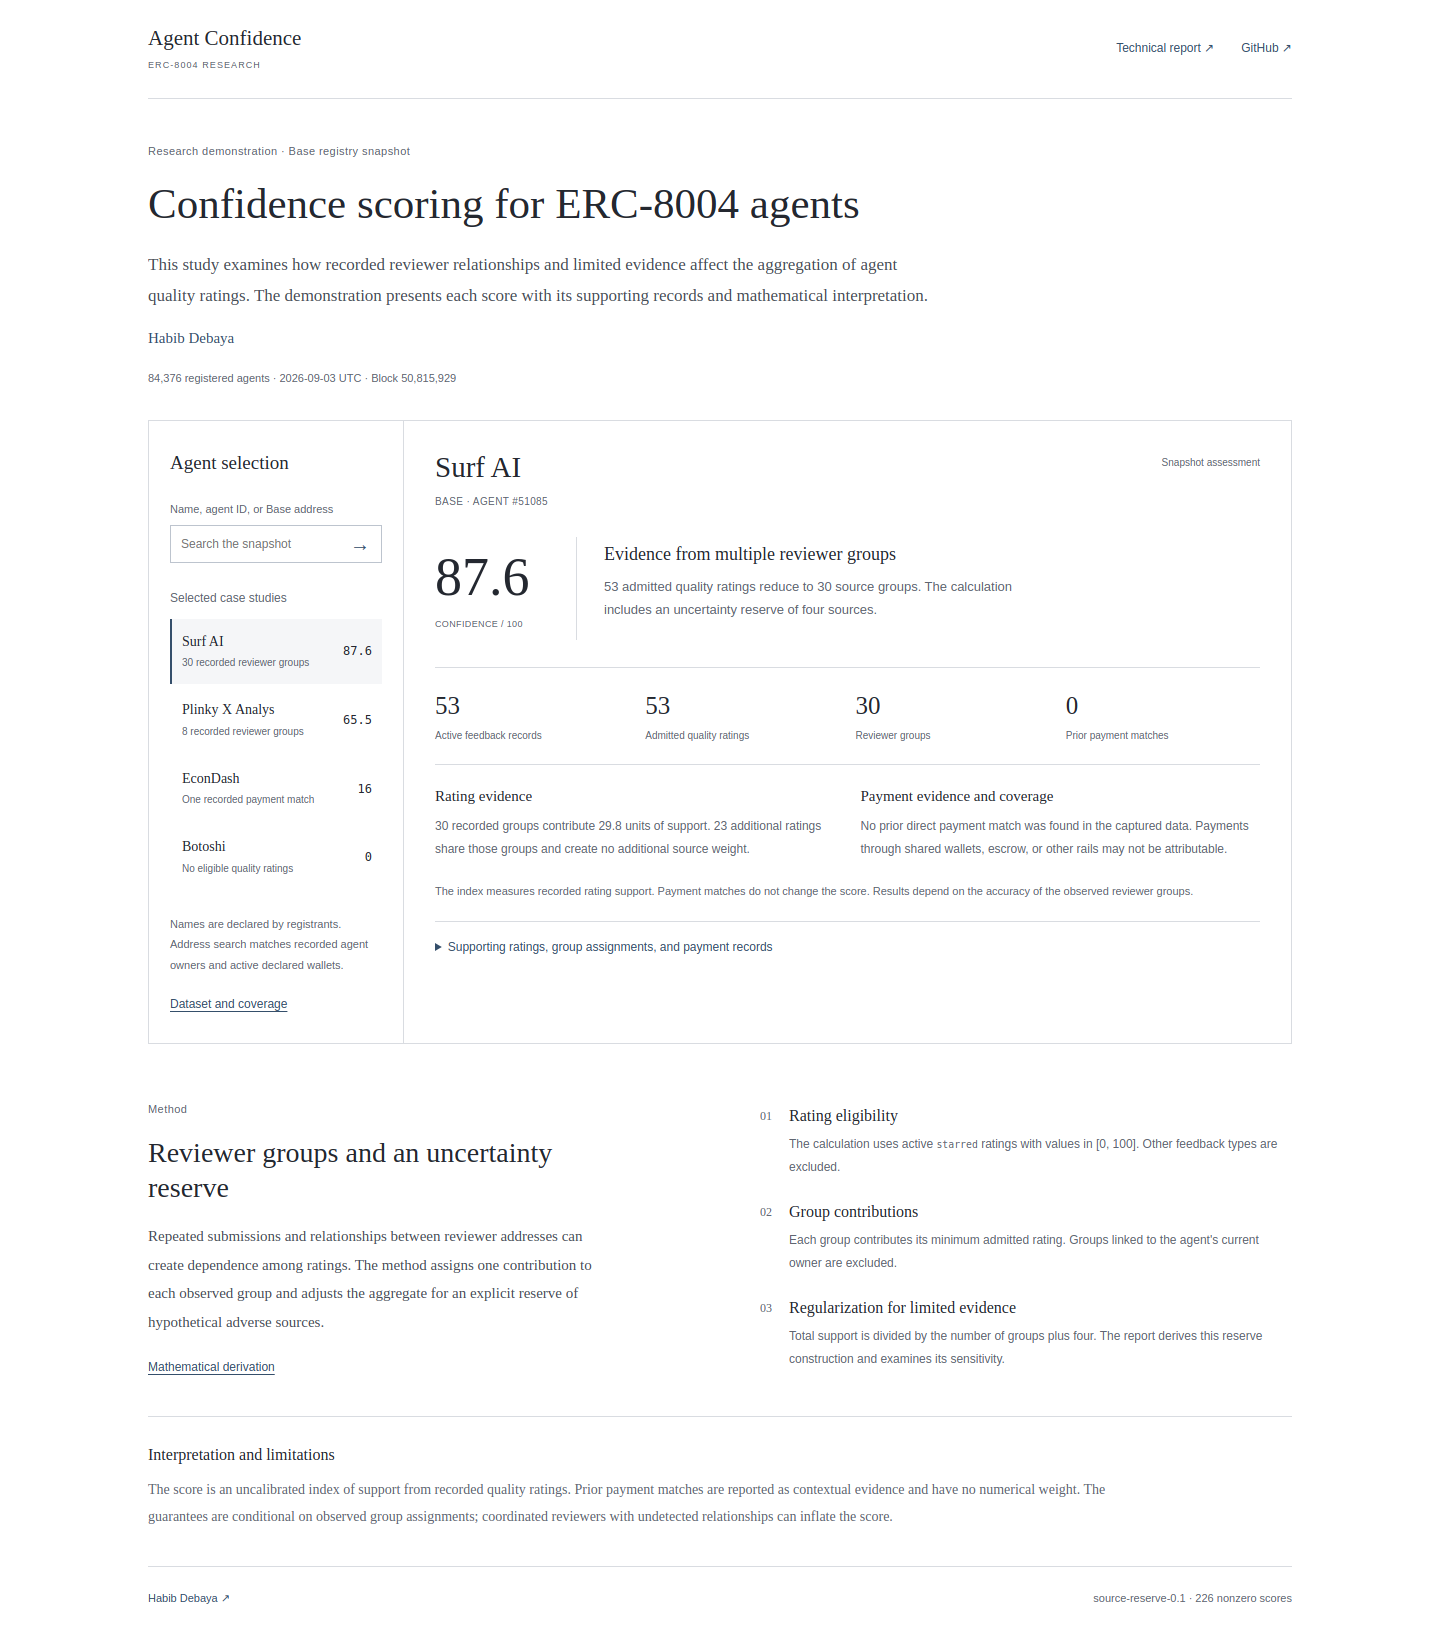
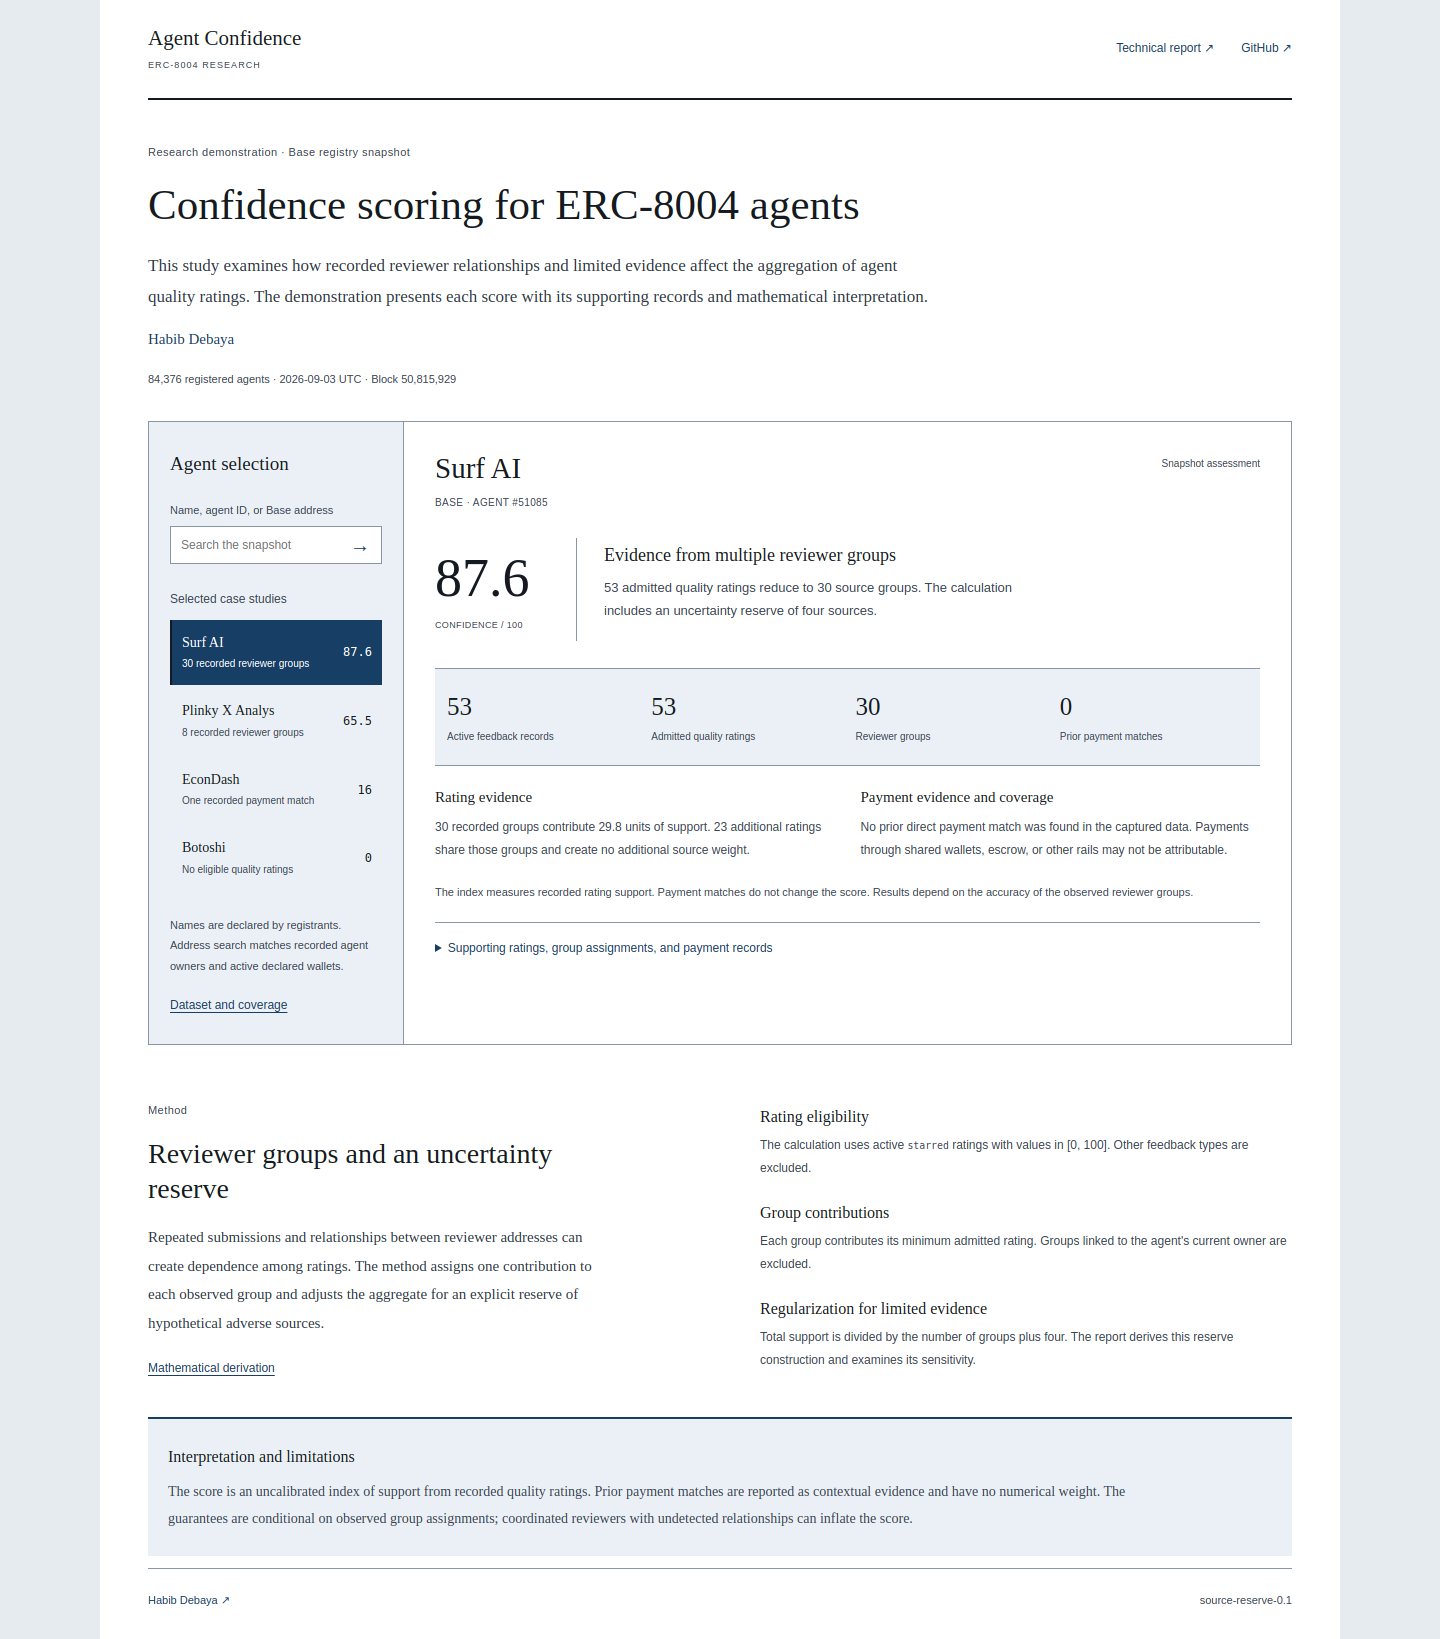
updates

diff --git a/app/static/site.css b/app/static/site.css
@@ -1,4 +1,4 @@
-:root{color-scheme:light;--paper:#fff;--surface:#fff;--ink:#242830;--muted:#606671;--line:#d9dce1;--accent:#354f6b;--wash:#f5f6f8;--serif:Georgia,'Times New Roman',serif;--sans:-apple-system,BlinkMacSystemFont,'Segoe UI',Arial,sans-serif;--mono:ui-monospace,SFMono-Regular,Consolas,monospace}
+:root{color-scheme:light;--paper:#e6ebf0;--surface:#fff;--ink:#141a21;--muted:#3b4653;--line:#8896a6;--accent:#173e65;--wash:#eaf0f6;--serif:Georgia,'Times New Roman',serif;--sans:-apple-system,BlinkMacSystemFont,'Segoe UI',Arial,sans-serif;--mono:ui-monospace,SFMono-Regular,Consolas,monospace}
 *{box-sizing:border-box}
 html{scroll-behavior:smooth;scroll-padding-top:24px}
 body{margin:0;background:var(--paper);color:var(--ink);font:17px/1.75 var(--serif)}
@@ -14,23 +14,23 @@ h1{font-size:43px;margin-bottom:19px;max-width:850px}
 h2{font-size:29px}
 h3{font-size:19px}
 [hidden]{display:none!important}
-.page{max-width:1240px;margin:auto;padding:0 48px}
-.header{display:flex;justify-content:space-between;align-items:center;gap:20px;padding:25px 0;border-bottom:1px solid var(--line)}
+.page{max-width:1240px;min-height:100vh;margin:auto;padding:0 48px;background:var(--surface)}
+.header{display:flex;justify-content:space-between;align-items:center;gap:20px;padding:25px 0;border-bottom:2px solid var(--ink)}
 .brand{color:var(--ink);text-decoration:none;font:21px/1.3 var(--serif)}
 .brand small{display:block;font:9px/1.6 var(--sans);letter-spacing:.12em;color:var(--muted);margin-top:6px}
 .header nav{display:flex;gap:27px;font:12px/1.6 var(--sans)}
 .header nav a{text-decoration:none}
 .hero{padding:43px 0 32px}
 .eyebrow{font:11px/1.7 var(--sans);letter-spacing:.04em;color:var(--muted);margin-bottom:17px}
-.intro{font-size:17px;max-width:790px;color:#494f58;margin-bottom:14px;line-height:1.8}
+.intro{font-size:17px;max-width:790px;color:#303a46;margin-bottom:14px;line-height:1.8}
 .author-line{font-size:15px;margin-bottom:17px}
 .author-line a{text-decoration:none}
 .snapshot-line{font:11px/1.8 var(--sans);color:var(--muted)}
 .workspace{display:grid;grid-template-columns:255px minmax(0,1fr);border:1px solid var(--line);background:var(--surface)}
-.selection{padding:25px 21px;border-right:1px solid var(--line)}
+.selection{padding:25px 21px;border-right:1px solid var(--line);background:var(--wash)}
 .section-label{font-size:19px;margin-bottom:21px}
 label{display:block;font:11px/1.6 var(--sans);color:var(--muted);margin-bottom:7px}
-.search-field{display:flex;border:1px solid #bdc4ce;background:#fff}
+.search-field{display:flex;border:1px solid var(--line);background:var(--surface)}
 .search-field:focus-within{outline:1px solid var(--accent);outline-offset:2px}
 .search-field input{width:100%;min-width:0;border:0;background:none;padding:11px 0 11px 10px;color:var(--ink);font:12px var(--sans);outline:none}
 .search-field button{border:0;background:none;color:var(--accent);padding:0 11px;font-size:20px}
@@ -38,8 +38,9 @@ label{display:block;font:11px/1.6 var(--sans);color:var(--muted);margin-bottom:7
 .small-label{font:12px/1.7 var(--sans);color:var(--muted);margin:25px 0 10px}
 .examples{display:flex;flex-direction:column;gap:3px}
 .example{display:flex;align-items:center;justify-content:space-between;text-align:left;gap:9px;width:100%;padding:13px 10px;border:0;border-left:2px solid transparent;background:transparent}
-.example:hover{background:var(--wash)}
-.example[aria-pressed=true]{background:var(--wash);border-left-color:var(--accent)}
+.example:hover{background:#d8e3ee}
+.example[aria-pressed=true]{background:var(--accent);border-left-color:var(--ink);color:#fff}
+.example[aria-pressed=true] small,.example[aria-pressed=true]>span:last-child{color:#fff}
 .example strong{display:block;font:14px/1.4 var(--serif);overflow-wrap:anywhere}
 .example small{display:block;font:10px/1.6 var(--sans);color:var(--muted);margin-top:4px}
 .example>span:last-child{font:12px var(--mono);color:var(--ink)}
@@ -58,7 +59,7 @@ label{display:block;font:11px/1.6 var(--sans);color:var(--muted);margin-bottom:7
 .score-explanation{min-width:0}
 .score-explanation h3{font-size:18px;margin-bottom:10px}
 .score-explanation p{font:13px/1.8 var(--sans);color:var(--muted);margin-bottom:12px;max-width:410px}
-.metrics{display:grid;grid-template-columns:repeat(4,1fr);gap:16px;padding:20px 0;border-bottom:1px solid var(--line)}
+.metrics{display:grid;grid-template-columns:repeat(4,1fr);gap:16px;padding:20px 12px;border-bottom:1px solid var(--line);background:var(--wash)}
 .metric strong{display:block;font:25px/1.4 var(--serif);font-variant-numeric:lining-nums tabular-nums}
 .metric small{font:10px/1.65 var(--sans);color:var(--muted);display:block;margin-top:5px}
 .observations{display:grid;grid-template-columns:1fr 1fr;gap:26px;padding-top:22px}
@@ -69,11 +70,10 @@ label{display:block;font:11px/1.6 var(--sans);color:var(--muted);margin-bottom:7
 .evidence summary{font:12px/1.8 var(--sans);color:var(--accent);cursor:pointer}
 .evidence-content{padding-top:16px}
 .scroll-table{overflow-x:auto;max-width:100%}
-table{border-collapse:collapse;width:100%;font:12px/1.75 var(--sans)}
-th{text-align:left;color:var(--muted);font-weight:500}
-td,th{padding:10px 9px;border-bottom:1px solid var(--line);vertical-align:top}
-td:first-child,th:first-child{padding-left:0}
-td:last-child,th:last-child{padding-right:0}
+table{border-collapse:collapse;width:100%;border:1px solid var(--line);background:var(--surface);color:var(--ink);font:12px/1.75 var(--sans);font-variant-numeric:tabular-nums}
+th{text-align:left;background:var(--accent);color:#fff;font-weight:600}
+td,th{padding:10px 12px;border-bottom:1px solid var(--line);vertical-align:top}
+tbody tr:nth-child(even){background:var(--wash)}
 .mono,code{font-family:var(--mono)}
 code{font-size:.82em;overflow-wrap:anywhere}
 .evidence p{font:12px/1.85 var(--sans);color:var(--muted)}
@@ -83,13 +83,11 @@ code{font-size:.82em;overflow-wrap:anywhere}
 .search-hit small{display:block;color:var(--muted);font:10px/1.8 var(--sans)}
 .method-preview{display:grid;grid-template-columns:1fr 1fr;gap:80px;margin:48px 0 35px;padding-top:8px}
 .method-preview h2{font-size:28px;margin-bottom:17px;max-width:430px}
-.method-preview>div>p:not(.eyebrow){font-size:15px;max-width:465px;line-height:1.9;color:#494f58}
+.method-preview>div>p:not(.eyebrow){font-size:15px;max-width:465px;line-height:1.9;color:#303a46}
 .method-steps{display:flex;flex-direction:column;gap:22px;padding-top:5px}
-.method-steps>div{display:flex;gap:17px}
-.method-steps span{font:12px var(--serif);color:var(--muted);padding-top:4px}
 .method-steps p{font:12px/1.9 var(--sans);color:var(--muted);margin:0}
 .method-steps strong{display:block;color:var(--ink);font:16px/1.4 var(--serif);margin-bottom:6px}
-.scope-banner{border-top:1px solid var(--line);padding:24px 0;margin-bottom:12px;font-size:16px}
+.scope-banner{border-top:2px solid var(--accent);background:var(--wash);padding:24px 20px;margin-bottom:12px;font-size:16px}
 .scope-banner strong{font-weight:400}
 .scope-banner p{color:var(--muted);margin:8px 0 0;font-size:14px;line-height:1.9;max-width:1000px}
 .footer{display:flex;justify-content:space-between;gap:20px;border-top:1px solid var(--line);padding:22px 0 29px;color:var(--muted);font:11px/1.7 var(--sans)}
@@ -100,7 +98,7 @@ code{font-size:.82em;overflow-wrap:anywhere}
 .noscript{padding:24px}
 .report{max-width:790px;margin:44px auto 65px}
 .report h1{font-size:40px;max-width:750px;line-height:1.23}
-.report .lead{font-size:19px;color:#494f58;line-height:1.7}
+.report .lead{font-size:19px;color:#303a46;line-height:1.7}
 .report h2{font-size:27px;margin:42px 0 17px;line-height:1.3}
 .report h3{font-size:20px;margin:26px 0 10px}
 .report p,.report li{font-size:16px;line-height:1.9}
@@ -111,16 +109,16 @@ code{font-size:.82em;overflow-wrap:anywhere}
 .equation{font:21px/1.9 var(--serif);padding:20px 10px;margin:23px 0;text-align:center;overflow-x:auto}
 .equation small{display:block;font:12px/1.8 var(--sans);color:var(--muted);margin-top:10px}
 .report table{font-size:12px;margin:15px 0}
-.report .note{padding:16px 20px;border-left:2px solid var(--line);font-size:15px}
+.report .note{padding:16px 20px;border-left:3px solid var(--accent);background:var(--wash);font-size:15px}
 .report pre{background:var(--wash);padding:17px;font-size:12px;overflow-x:auto}
 .experiment-controls{display:flex;gap:18px;align-items:center;flex-wrap:wrap;margin:22px 0}
 .experiment-controls label{font-size:12px;margin:0}
 .experiment-controls select{max-width:100%;min-width:0;padding:7px;border:1px solid var(--line);background:white;color:var(--ink);font:12px var(--sans)}
 .experiment-figure{padding:21px;border:1px solid var(--line);margin:20px 0}
 .experiment-figure .bar-row{display:grid;grid-template-columns:130px 1fr 55px;align-items:center;gap:12px;margin:16px 0;font:12px var(--sans)}
-.bar-track{height:13px;background:#eef0f3;overflow:hidden}
+.bar-track{height:13px;background:#d8e1ea;overflow:hidden}
 .bar{height:100%;background:var(--accent)}
-.bar.baseline{background:#a9b0ba}
+.bar.baseline{background:#697b8f}
 .experiment-figure figcaption{font-size:14px;color:var(--muted);line-height:1.8}
 .failure{color:var(--ink)}
 .report-links{overflow-wrap:anywhere}

diff --git a/app/static/index.html b/app/static/index.html
@@ -44,7 +44,7 @@
     </section>
     <section class="method-preview" aria-labelledby="methodTitle">
       <div><p class="eyebrow">Method</p><h2 id="methodTitle">Reviewer groups and an uncertainty reserve</h2><p>Repeated submissions and relationships between reviewer addresses can create dependence among ratings. The method assigns one contribution to each observed group and adjusts the aggregate for an explicit reserve of hypothetical adverse sources.</p><a class="text-link" href="./technical-report/#derivation" target="_blank" rel="noopener">Mathematical derivation</a></div>
-      <div class="method-steps"><div><span>01</span><p><strong>Rating eligibility</strong>The calculation uses active <code>starred</code> ratings with values in [0, 100]. Other feedback types are excluded.</p></div><div><span>02</span><p><strong>Group contributions</strong>Each group contributes its minimum admitted rating. Groups linked to the agent's current owner are excluded.</p></div><div><span>03</span><p><strong>Regularization for limited evidence</strong>Total support is divided by the number of groups plus four. The report derives this reserve construction and examines its sensitivity.</p></div></div>
+      <div class="method-steps"><div><p><strong>Rating eligibility</strong>The calculation uses active <code>starred</code> ratings with values in [0, 100]. Other feedback types are excluded.</p></div><div><p><strong>Group contributions</strong>Each group contributes its minimum admitted rating. Groups linked to the agent's current owner are excluded.</p></div><div><p><strong>Regularization for limited evidence</strong>Total support is divided by the number of groups plus four. The report derives this reserve construction and examines its sensitivity.</p></div></div>
     </section>
     <section class="scope-banner"><strong>Interpretation and limitations</strong><p>The score is an uncalibrated index of support from recorded quality ratings. Prior payment matches are reported as contextual evidence and have no numerical weight. The guarantees are conditional on observed group assignments; coordinated reviewers with undetected relationships can inflate the score.</p></section>
   </main>

diff --git a/app/static/site.js b/app/static/site.js
@@ -124,7 +124,7 @@ async function start() {
     snapshot = await readJSON('./static/data/snapshot.json');
     const date = new Date(snapshot.timestamp).toISOString().slice(0, 10);
     $('#snapshotLine').textContent = `${number(snapshot.summary.agents)} registered agents · ${date} UTC · Block ${number(snapshot.block)}`;
-    $('#methodVersion').textContent = `${snapshot.version} · ${number(snapshot.summary.scored_agents)} nonzero scores`;
+    $('#methodVersion').textContent = snapshot.version;
     $('#examples').innerHTML = snapshot.examples.map(agent => `<button type="button" class="example" data-agent="${agent[0]}" aria-pressed="false"><span><strong>${esc(nameOf(agent))}</strong><small>${exampleNotes[agent[0]] || `Agent #${agent[0]}`}</small></span><span>${number(resultFor(agent[0]).score)}</span></button>`).join('');
     $('#examples').querySelectorAll('button').forEach(button => button.addEventListener('click', () => selectAgent(snapshot.examples.find(agent => agent[0] === Number(button.dataset.agent)))));
     $('#searchForm').addEventListener('submit', event => { event.preventDefault(); search($('#query').value); });

diff --git a/README.md b/README.md
@@ -2,7 +2,7 @@
 
 [Habib Debaya](https://habibdebaya.github.io/)
 
-[Web demonstration](https://habibdebaya.github.io/erc8004-agent-confidence/) · [Technical report](https://habibdebaya.github.io/erc8004-agent-confidence/technical-report/) · [Report source](docs/technical-report.md) · [Reproduction](#reproduction)
+[Web demonstration](https://habibdebaya.github.io/erc8004-agent-confidence/) · [Technical report](https://habibdebaya.github.io/erc8004-agent-confidence/technical-report/) · [Reproduction](#reproduction)
 
 This repository studies the aggregation of agent quality ratings when observations may be repeated, reviewers may be related, and independent evidence is limited. It implements a confidence index based on the minimum rating within each observed reviewer group and an explicit uncertainty reserve. The accompanying web application provides agent-level calculations, supporting records, and contextual payment evidence.
 
